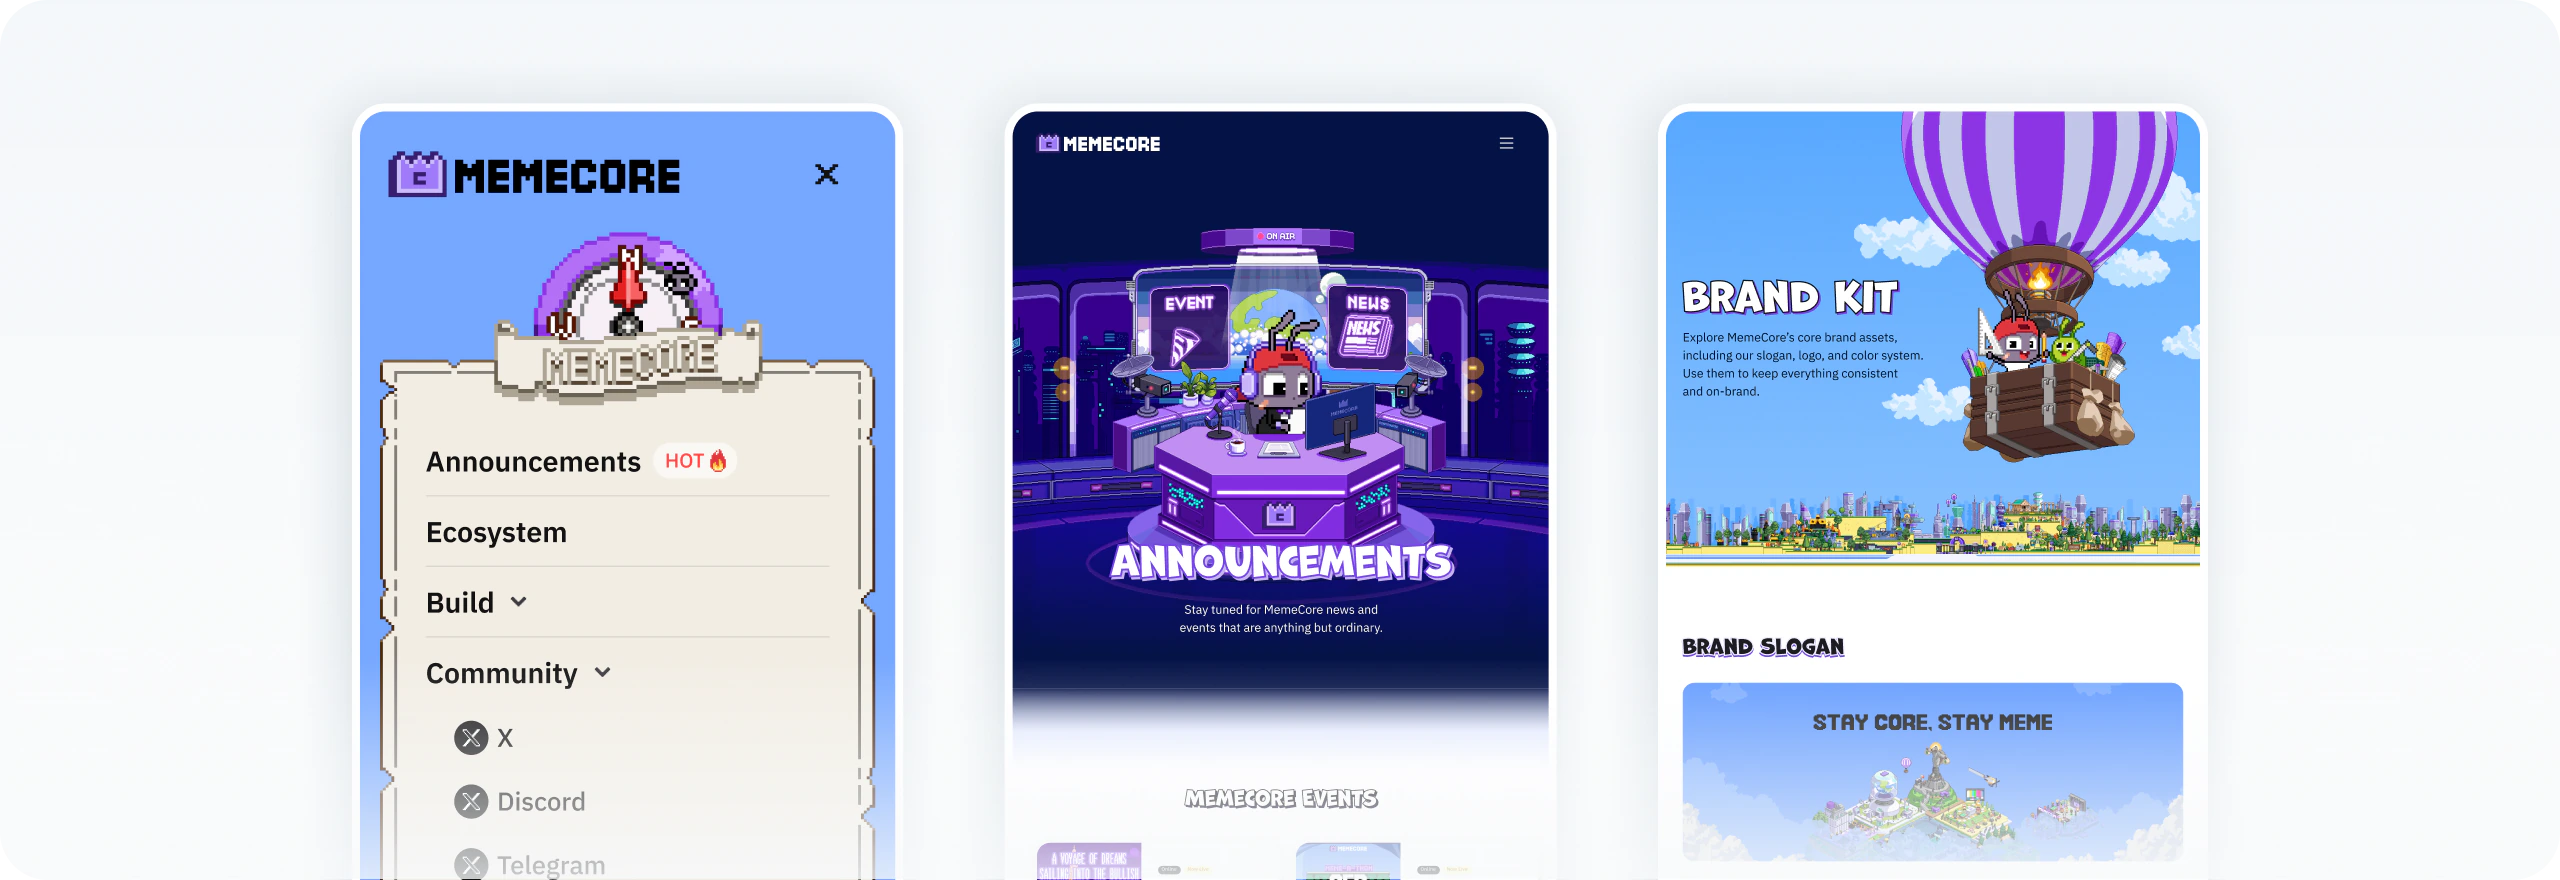
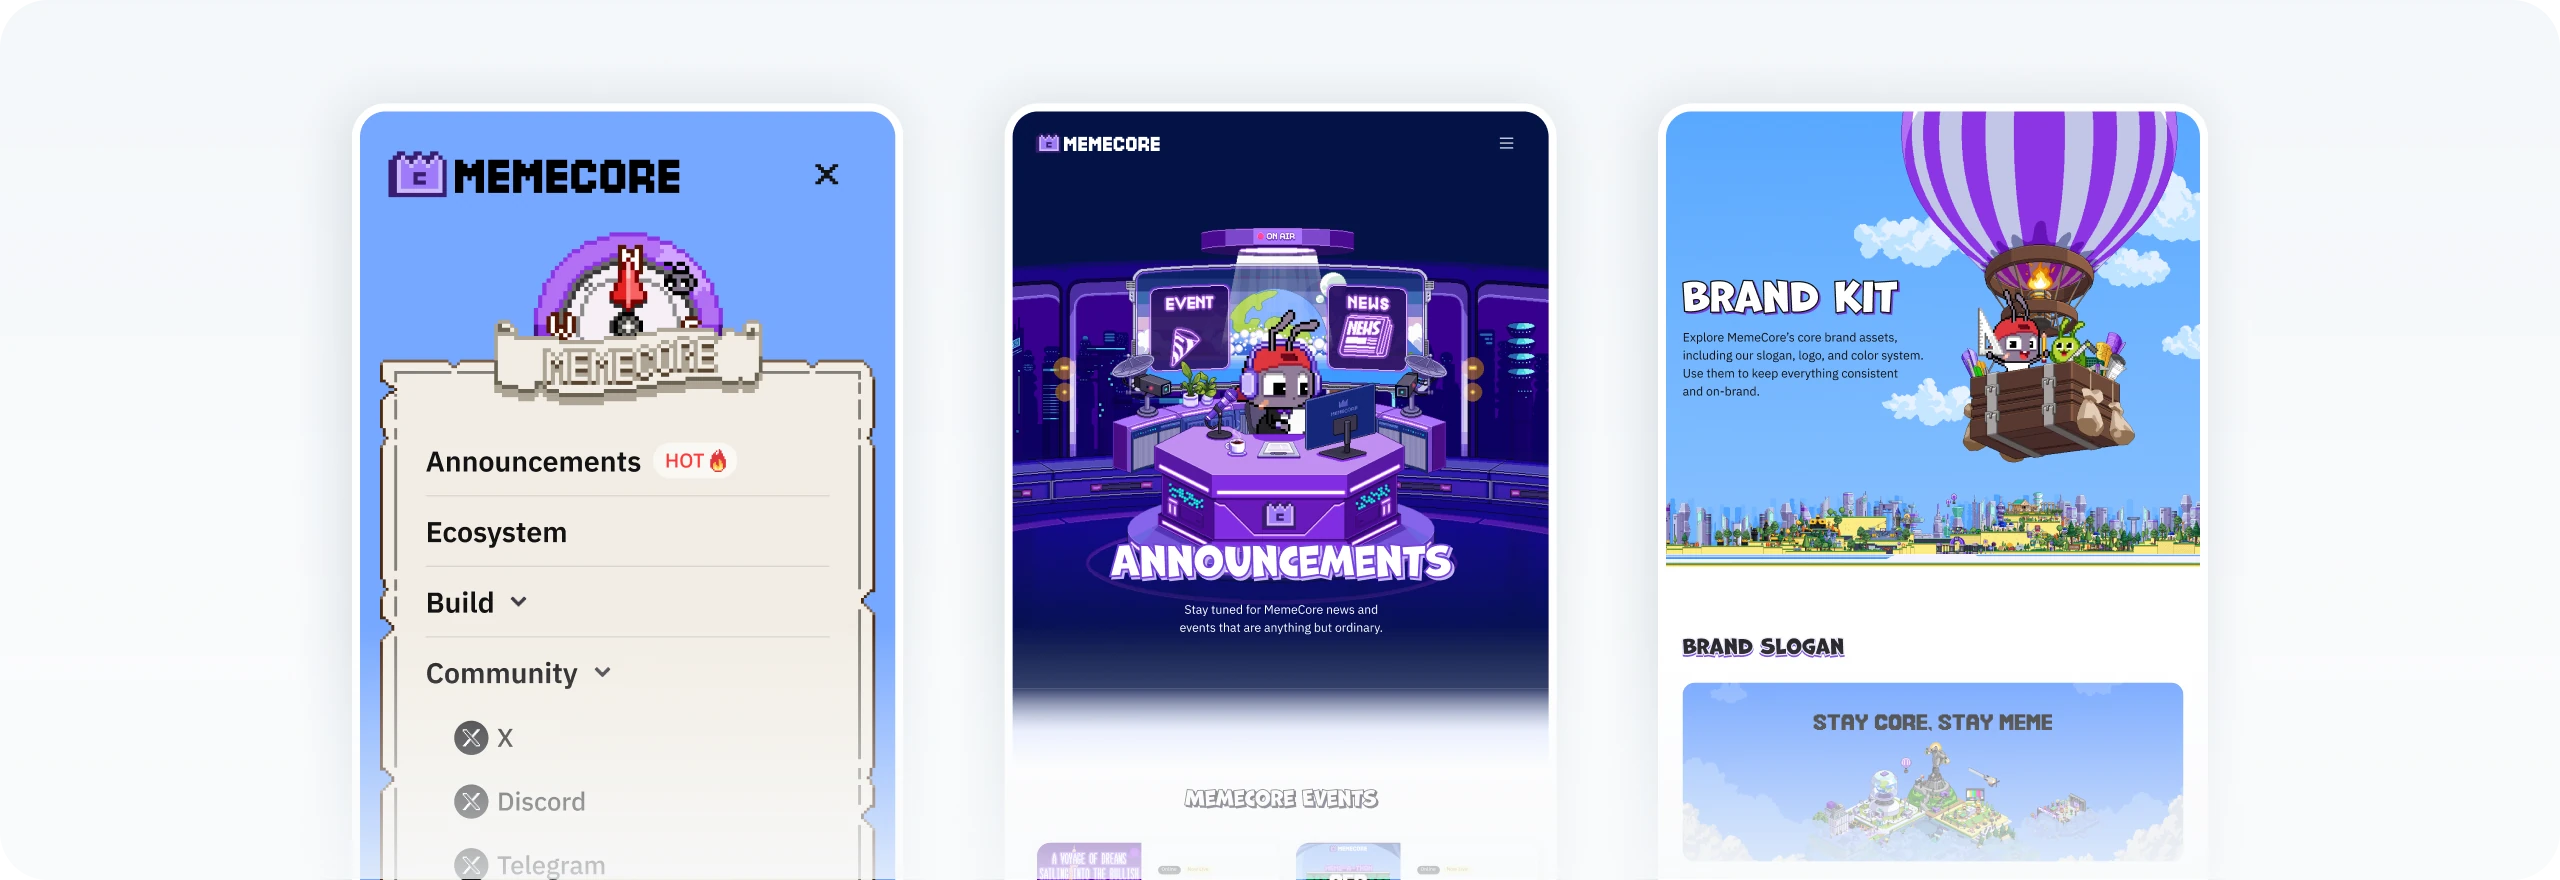
Case studies: 87.5% scale on laptop widths; MemeCore Figma sync
- All Work pages: scale body sections to 87.5% between 769–1679px so the
  1920-wide layouts keep side margins (GNB, footer and cursor unchanged)
- MemeCore: remove Prioritization section, rename to DESIGN SOLUTION 1/2,
  new Timeline copy (1000px), Learning bottom spacing 100, updated
  Execution visual fade
- Match Group: temporarily hide the Design Strategy section

Changed region(s): [[0.375, 0.7364, 0.625, 0.767], [0.7188, 0.7977, 0.75, 0.8284]]

diff --git a/work/memecore/index.html b/work/memecore/index.html
@@ -273,29 +273,15 @@
     </div>
   </section>
 
-  <!-- Prioritization (Figma 6800:78728) -->
-  <section class="mc-block mc-block--prio">
-    <div class="mc-container mc-stack mc-stack--60">
-      <div class="mc-text mc-w-1000">
-        <div class="mc-text__head">
-          <span class="mc-label mc-label--spaced">PRIORITIZATION</span>
-          <h2 class="mc-title">With many possible changes, I prioritized what mattered most</h2>
-        </div>
-        <p class="mc-lead mc-lead--body">I mapped the changes that could test our hypotheses, then prioritized them by impact and effort <strong>to focus our limited resources on the highest-impact work.</strong></p>
-      </div>
-      <img class="mc-prio" src="../../assets/images/memecore/prio-list.webp?v=2" width="1280" height="380" alt="Possible changes mapped before prioritizing, including global navigation, IA restructure, GIF to CSS + WebP, clear landing page, Buy $M button, announcements hub, lazy-loaded media, roadmap page and site search" loading="lazy">
-    </div>
-  </section>
-
   <!-- Timeline (Figma 6730:105453) -->
   <section class="mc-block mc-block--timeline">
     <div class="mc-container mc-stack mc-stack--60">
-      <div class="mc-text mc-w-1100">
+      <div class="mc-text mc-w-1000">
         <div class="mc-text__head">
           <span class="mc-label mc-label--spaced">TIMELINE</span>
           <h2 class="mc-title">Coordinated cross-team schedules to ship in three phases</h2>
         </div>
-        <p class="mc-lead mc-lead--body">With the team balancing multiple projects, I split the scope into three phases to make the most of limited time. I shaped the IA with Growth &amp; Marketing, then aligned each phase with illustrators and developers.</p>
+        <p class="mc-lead mc-lead--body">With the team balancing multiple projects, I prioritized changes by impact and effort and split the scope into three phases. I shaped the IA with Growth &amp; Marketing, then aligned each phase with illustrators and developers.</p>
       </div>
       <div class="mc-tl">
         <img class="mc-tl__line" src="../../assets/images/memecore/timeline-line.svg" width="1280" height="29" alt="" aria-hidden="true">
@@ -334,7 +320,7 @@
     <div class="mc-container mc-stack mc-stack--60">
       <div class="mc-text mc-w-1000">
           <div class="mc-text__head">
-            <span class="mc-label mc-label--spaced">DESIGN IMPROVEMENT 1</span>
+            <span class="mc-label mc-label--spaced">DESIGN SOLUTION 1</span>
             <h2 class="mc-title">Building global navigation around user needs and evolving business priorities</h2>
           </div>
         <p class="mc-lead mc-lead--body mc-lead--tight">The original site had no navigation bar, so key information was scattered and hard to reach. To build a clear hierarchy, I <strong>analyzed users' most frequent questions, MemeCore's business model, and Web3 services</strong> like Sui, Monad, and Pudgy Penguins to find common priorities and navigation patterns. I introduced the site's first navigation bar and refined it through two more releases as user needs and business priorities changed.</p>
@@ -351,7 +337,7 @@
     <div class="mc-container mc-stack mc-stack--60">
       <div class="mc-text mc-w-1000">
           <div class="mc-text__head">
-            <span class="mc-label mc-label--spaced">DESIGN IMPROVEMENT 2</span>
+            <span class="mc-label mc-label--spaced">DESIGN SOLUTION 2</span>
             <h2 class="mc-title">Turning a visual-first homepage into an information-first landing page</h2>
           </div>
         <p class="mc-body mc-body--tight">Users could only find pages by hovering over illustrations, so key information stayed hidden. To decide what the homepage should show first, <strong>I worked with the Growth and Marketing teams to rank users' most common questions and the company's key messages</strong>, then built the new landing page around that order.</p>
@@ -465,7 +451,7 @@
         <p class="mc-body">Midway through the project, our frontend developer moved to another urgent initiative. Instead of pausing or cutting scope, <strong>I took over implementation: I connected Claude Code to the Figma API and GitLab, built the frontend, and later handled some backend work.</strong> Testing designs directly in the browser cut handoffs and rework.</p>
       </div>
       <div class="mc-art mc-art--round" style="--aw:1280">
-        <img src="../../assets/images/memecore/execution.webp?v=2" width="1280" height="440" alt="Three mobile pages built through vibe coding: the menu, Announcements and Brand Kit" loading="lazy">
+        <img src="../../assets/images/memecore/execution.webp?v=3" width="1280" height="440" alt="Three mobile pages built through vibe coding: the menu, Announcements and Brand Kit" loading="lazy">
         <video class="mc-art__clip" style="--x:260;--y:110;--w:107;--h:107;--r:0" muted loop playsinline preload="none" data-lazy-video aria-hidden="true"><source src="../../assets/images/memecore/anim/exec-compass.webm" type="video/webm"></video>
         <video class="mc-art__clip" style="--x:549.7;--y:105.9;--w:182.475;--h:193.42;--r:0" muted loop playsinline preload="none" data-lazy-video aria-hidden="true"><source src="../../assets/images/memecore/anim/exec-newsroom-v2.webm" type="video/webm"></video>
       </div>

diff --git a/work/memecore/memecore.css b/work/memecore/memecore.css
@@ -614,8 +614,8 @@
 
 .mc-block--hypothesis { padding: 80px 0 100px; }
 .mc-block--di2,
-.mc-block--impl,
-.mc-block--last { padding-bottom: 80px; }
+.mc-block--impl { padding-bottom: 80px; }
+.mc-block--last { padding-bottom: 100px; }
 
 .mc-stack { display: flex; flex-direction: column; }
 .mc-stack--14 { gap: 14px; }
@@ -1075,10 +1075,7 @@
 .mc-split__row--result > .mc-media--result { flex: 0 0 580px; }
 .mc-split__row--learning { gap: 60px; }
 
-/* ── Prioritization (Figma 6800:78728) ── */
-.mc-block--prio { padding: 40px 0 80px; }
 .mc-block--insight { padding-bottom: 120px; }
-.mc-prio,
 .mc-shotimg { display: block; width: 100%; height: auto; }
 
 /* ── Timeline (Figma 6730:105453): arrow line + dots + release cards ── */

diff --git a/work/mel-ai/index.html b/work/mel-ai/index.html
@@ -315,7 +315,7 @@
     </div>
   </section>
 
-  <!-- Design Strategy (Figma 6730:87607) -->
+  <!-- Design Strategy (Figma 6730:87607) — temporarily hidden
   <section class="mg-strategy">
     <div class="mg-container mg-hypo__inner">
       <div class="mg-head">
@@ -328,6 +328,7 @@
       </div>
     </div>
   </section>
+  -->
 
   <!-- Design Decision: Entry Point (Figma 6730:87624) -->
   <section class="mg-section mg-section--pb40">

diff --git a/work/case-study.css b/work/case-study.css
@@ -327,3 +327,11 @@
 
   .cs-body { padding-bottom: 80px; }
 }
+
+/* Laptop widths (769–1679px): scale the case-study body to 87.5% so the 1920-wide Figma
+   layouts keep similar side margins. GNB, footer and the custom cursor stay at 100%. */
+@media (min-width: 769px) and (max-width: 1679px) {
+  body > section,
+  body > .cs-meta,
+  body > .cs-body { zoom: 0.875; }
+}
